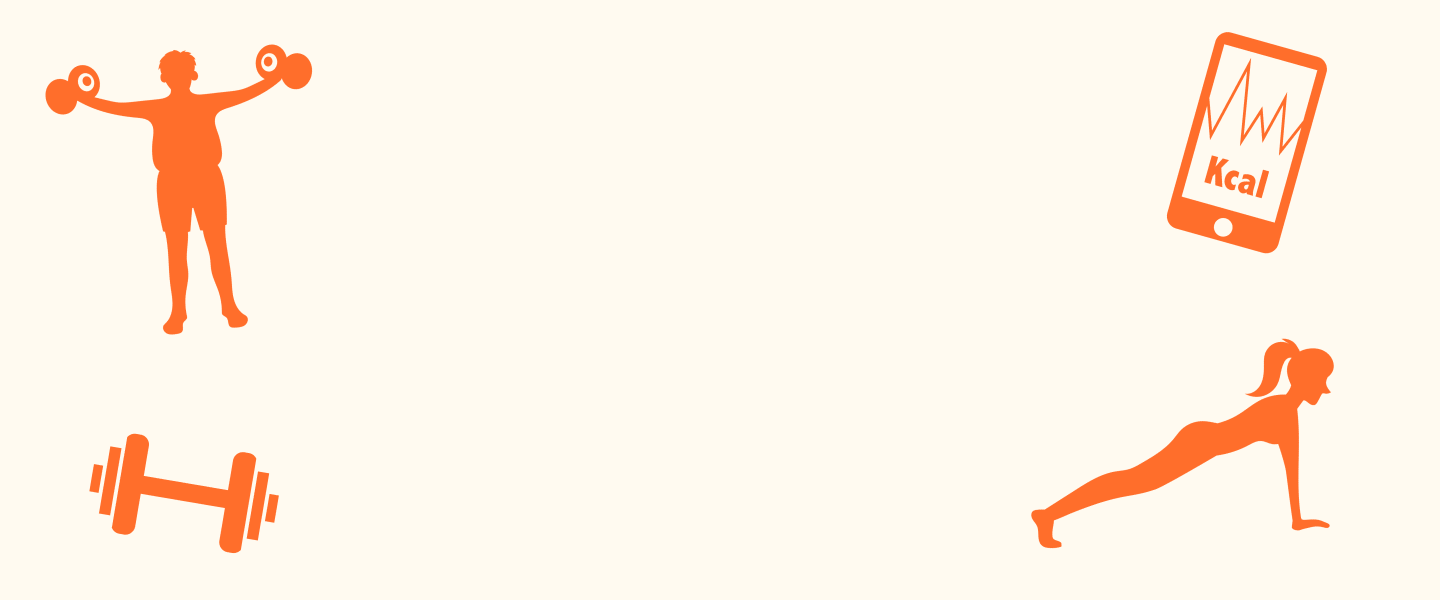
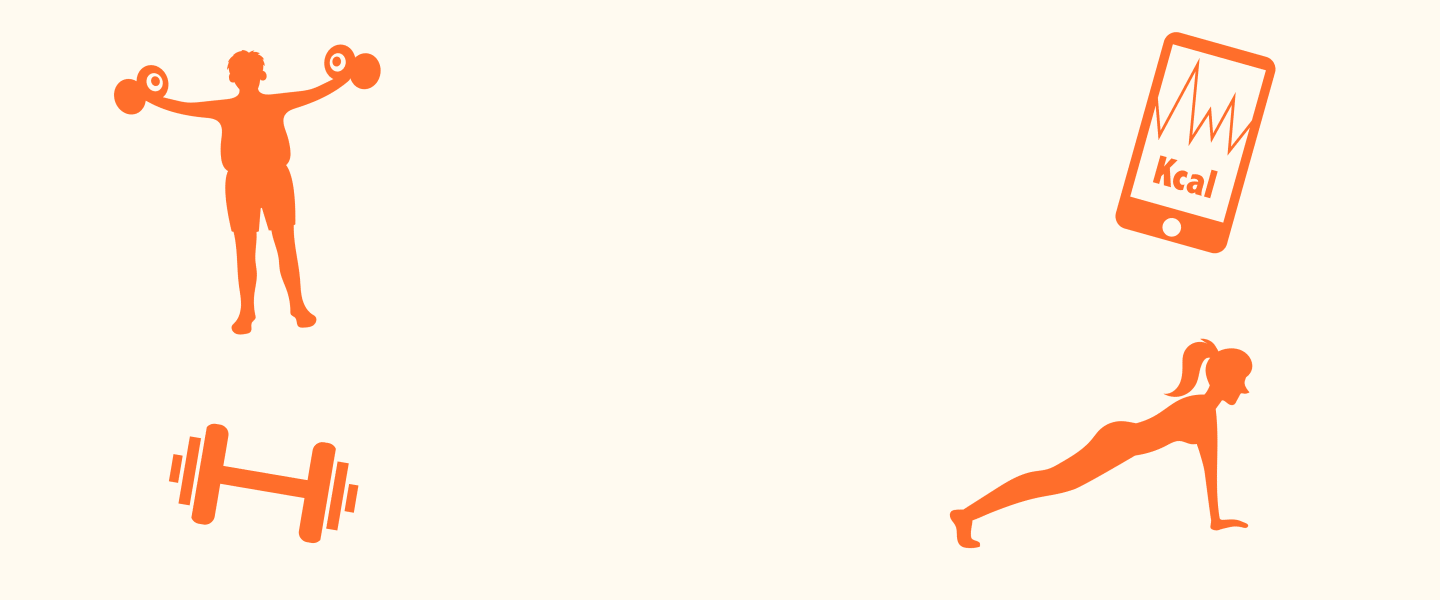
feat: Tablet版のレスポンシブ対応（#26）

diff --git a/frontend/src/pages/TopPage.jsx b/frontend/src/pages/TopPage.jsx
@@ -25,10 +25,10 @@ export const TopPage = () => {
     description
   }) => {
     return (
-      <li className="max-w-80 p-6 bg-[#FFDD79] rounded-md shadow-sm shadow-shadow">
-        <h3 className="inline-block mb-5 px-3 py-1 bg-primary rounded-full text-2xl text-background">{title}</h3>
+      <li className="max-w-80 p-3 lg:p-6 bg-[#FFDD79] rounded-md shadow-sm shadow-shadow">
+        <h3 className="inline-block mb-5 px-3 py-1 bg-primary rounded-full text-base lg:text-2xl text-background">{title}</h3>
         <img src={img} alt={alt} className="mb-5" />
-        <p className="text-left">{description}</p>
+        <p className="text-sm lg:text-base text-left">{description}</p>
       </li>
     );
   };
@@ -41,7 +41,7 @@ export const TopPage = () => {
   }) => {
     return (
       <div className="flex justify-center items-center mb-8">
-        <div className={`${flexClass} ${side === "left" ? "-translate-x-48" : "translate-x-48"} flex `}>
+        <div className={`${flexClass} ${side === "left" ? "md:-translate-x-36 lg:-translate-x-48" : "md:translate-x-36 lg:translate-x-48"} flex `}>
           <div>
             <img src={defaultIcon} alt="" className="max-w-20 rounded-full shadow-md shadow-shadow" />
           </div>
@@ -73,7 +73,7 @@ export const TopPage = () => {
   }) => {
     return (
       <motion.li
-        className="max-w-80 w-full mr-4 p-3 text-xl bg-white rounded-md"
+        className="max-w-80 w-full mr-4 p-3 text-xs lg:text-xl bg-white rounded-md"
         initial="hidden"
         whileInView="visible"
         viewport={{ once: true }}
@@ -81,7 +81,7 @@ export const TopPage = () => {
         transition={{ duration: 0.8 }}
       >
         <p className="mb-2">{text}</p>
-        <p className="text-2xl">{foodName}<span className="text-primary text-3xl font-bold">{countText}</span></p>
+        <p className="text-lg lg:text-2xl">{foodName}<span className="text-primary text-2xl lg:text-3xl font-bold">{countText}</span></p>
       </motion.li>
     );
   };
@@ -90,9 +90,9 @@ export const TopPage = () => {
     <>
       <section
         style={{ backgroundImage: `url(${keyBgDesktop})` }}
-        className="relative -z-10 flex justify-center items-center h-[600px] mb-10 bg-no-repeat bg-cover bg-center"
+        className="relative -z-10 flex justify-center items-center md:h-[400px] lg:h-[600px] mb-10 bg-no-repeat bg-cover bg-center"
       >
-        <div className="max-w-lg">
+        <div className="max-w-md lg:max-w-lg">
           <img src={keyLogoDesktop} alt="ロゴ画像" className="w-full" />
         </div>
       </section>
@@ -107,12 +107,14 @@ export const TopPage = () => {
         </UserProblem>
       </section>
 
-      <section className="mb-12">
-        <div className="max-w-6xl mx-auto p-8 bg-primary rounded-md text-white text-center shadow-sm shadow-shadow">
-          <h2 className="mb-5 text-3xl">あなたの消費カロリー、<span className="text-5xl text-[#ffff00]">食べ物<span className="text-3xl">の</span>個数</span>で置き換えてみませんか？</h2>
-          <p className="mb-5 text-xl">「なんこメシ」は運動で消費したカロリーを食品の個数に換算できます。</p>
+      <section className="mb-12 px-10">
+        <div className="max-w-6xl mx-auto p-4 lg:p-8 bg-primary rounded-md text-white text-center shadow-sm shadow-shadow">
+          <h2 className="mb-5 text-xl lg:text-3xl">あなたの消費カロリー、<br className="block lg:hidden" />
+            <span className="text-3xl lg:text-5xl text-[#ffff00]">食べ物<span className="md:text-xl lg:text-3xl">の</span>個数</span>で置き換えてみませんか？
+          </h2>
+          <p className="mb-5 md:text-lg lg:text-xl">「なんこメシ」は運動で消費したカロリーを食品の個数に換算できます。</p>
           <div>
-            <p className="mb-3 text-3xl -tracking-widest">例えば<span className="-tracking-[0.5em]">・・・</span></p>
+            <p className="mb-3 md:text-xl lg:text-3xl -tracking-widest">例えば<span className="-tracking-[0.5em]">・・・</span></p>
             <ul className="flex justify-center text-black drop-shadow-md">
               <FoodConversionItem text={"ランニングで消費した400kcal"} foodName={"ポテチ"} countText={"1.4個分"} />
               <FoodConversionItem text={"筋トレで消費した100kcal"} foodName={"アイス"} countText={"0.5個分"} />
@@ -122,10 +124,10 @@ export const TopPage = () => {
         </div>
       </section>
 
-      <section className="mb-12 bg-">
+      <section className="mb-12 px-10">
         <div className="max-w-6xl mx-auto text-center">
-          <h2 className="inline-block mb-8 pb-2 text-4xl border-b-2 border-black font-bold">アプリの主な使い方</h2>
-          <ul className="flex gap-8">
+          <h2 className="inline-block mb-5 lg:mb-8 pb-2 text-2xl lg:text-4xl border-b-2 border-black font-bold">アプリの主な使い方</h2>
+          <ul className="flex gap-5 lg:gap-8">
             <ProcessStep
               title={"カロリー入力"}
               img={iPhoneInput}
@@ -133,7 +135,7 @@ export const TopPage = () => {
               description={"運動による消費カロリーと日付を入力。カロリー不明な場合はMETsから推定値を算出できます。"}
             />
             <ProcessStep
-              title={"食品個数に換算"}
+              title={"個数に換算"}
               img={iPhoneConversion}
               alt={"換算結果ページが表示されたiPhone13"}
               description={"カロリー入力後、あなたが消費したカロリーが食品の個数に換算されます。"}
@@ -145,7 +147,7 @@ export const TopPage = () => {
               description={"自分がよく食べる食品を登録して、個数換算の対象にできます。"}
             />
             <ProcessStep
-              title={"お気に入り機能"}
+              title={"お気に入り"}
               img={iPhoneFavorite}
               alt={"お気に入りページが表示されたiPhone13"}
               description={"他のユーザーが登録している食品をお気に入り登録して、個数換算の対象にできます。"}
